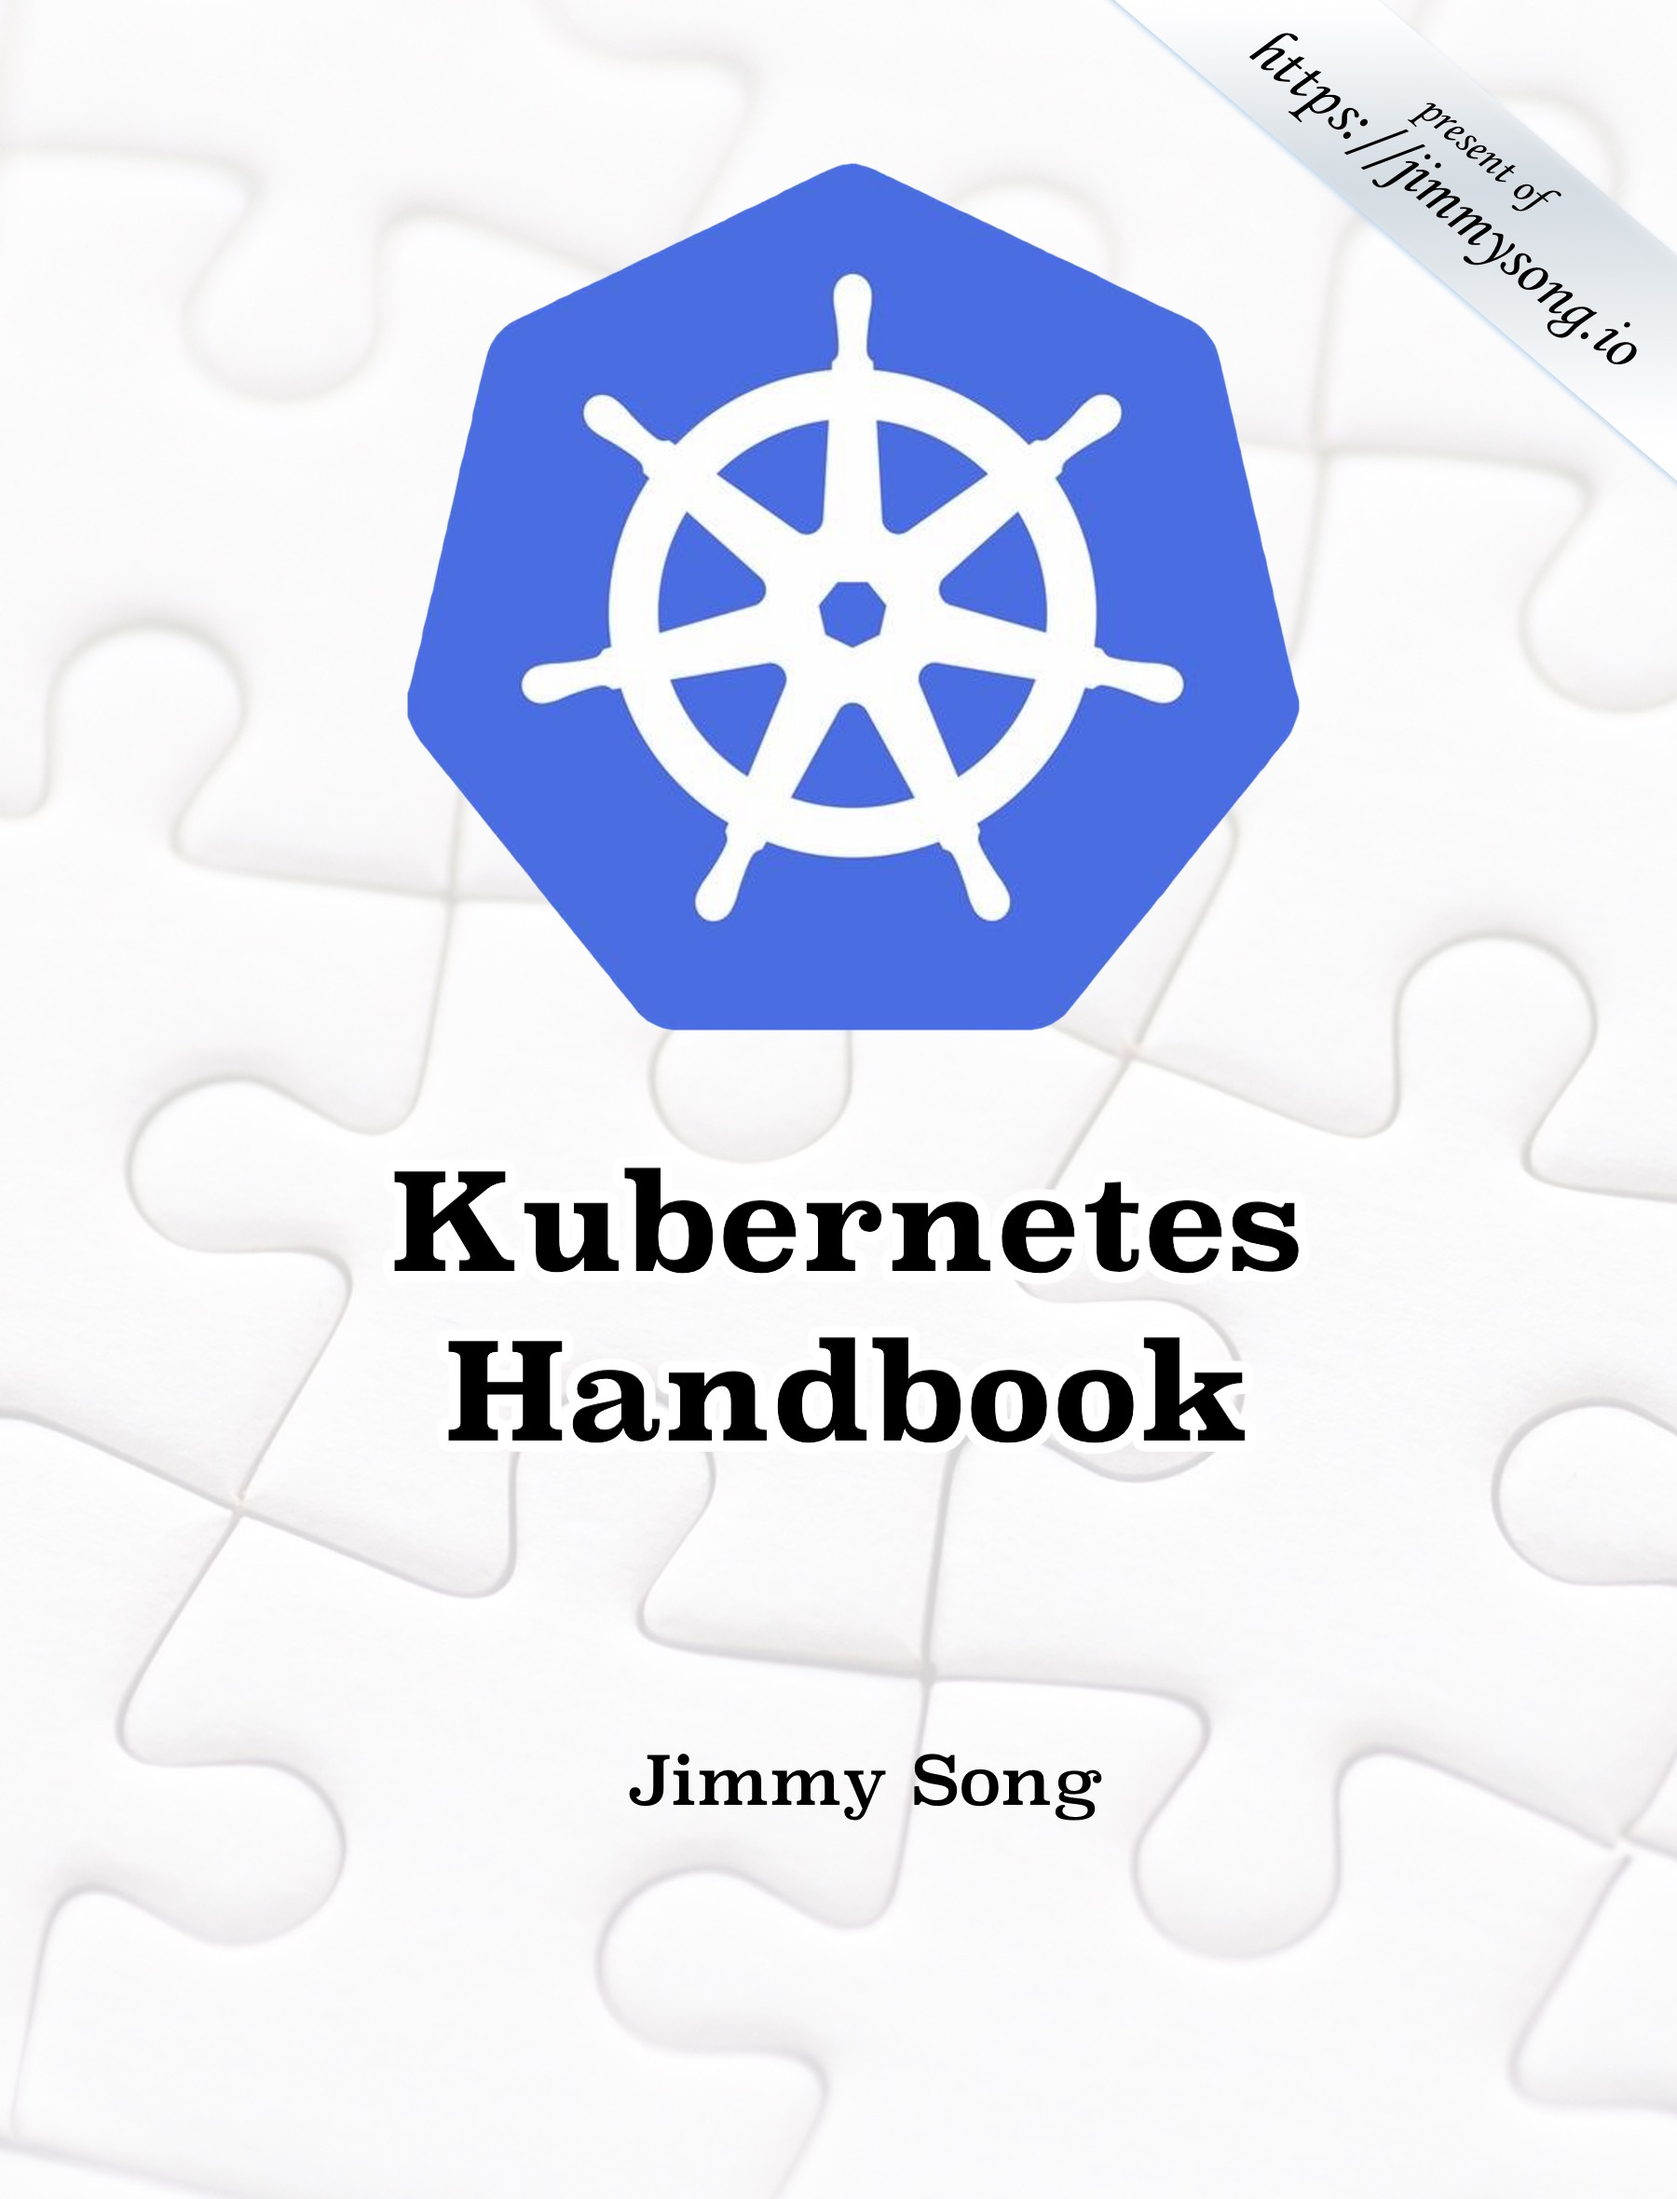
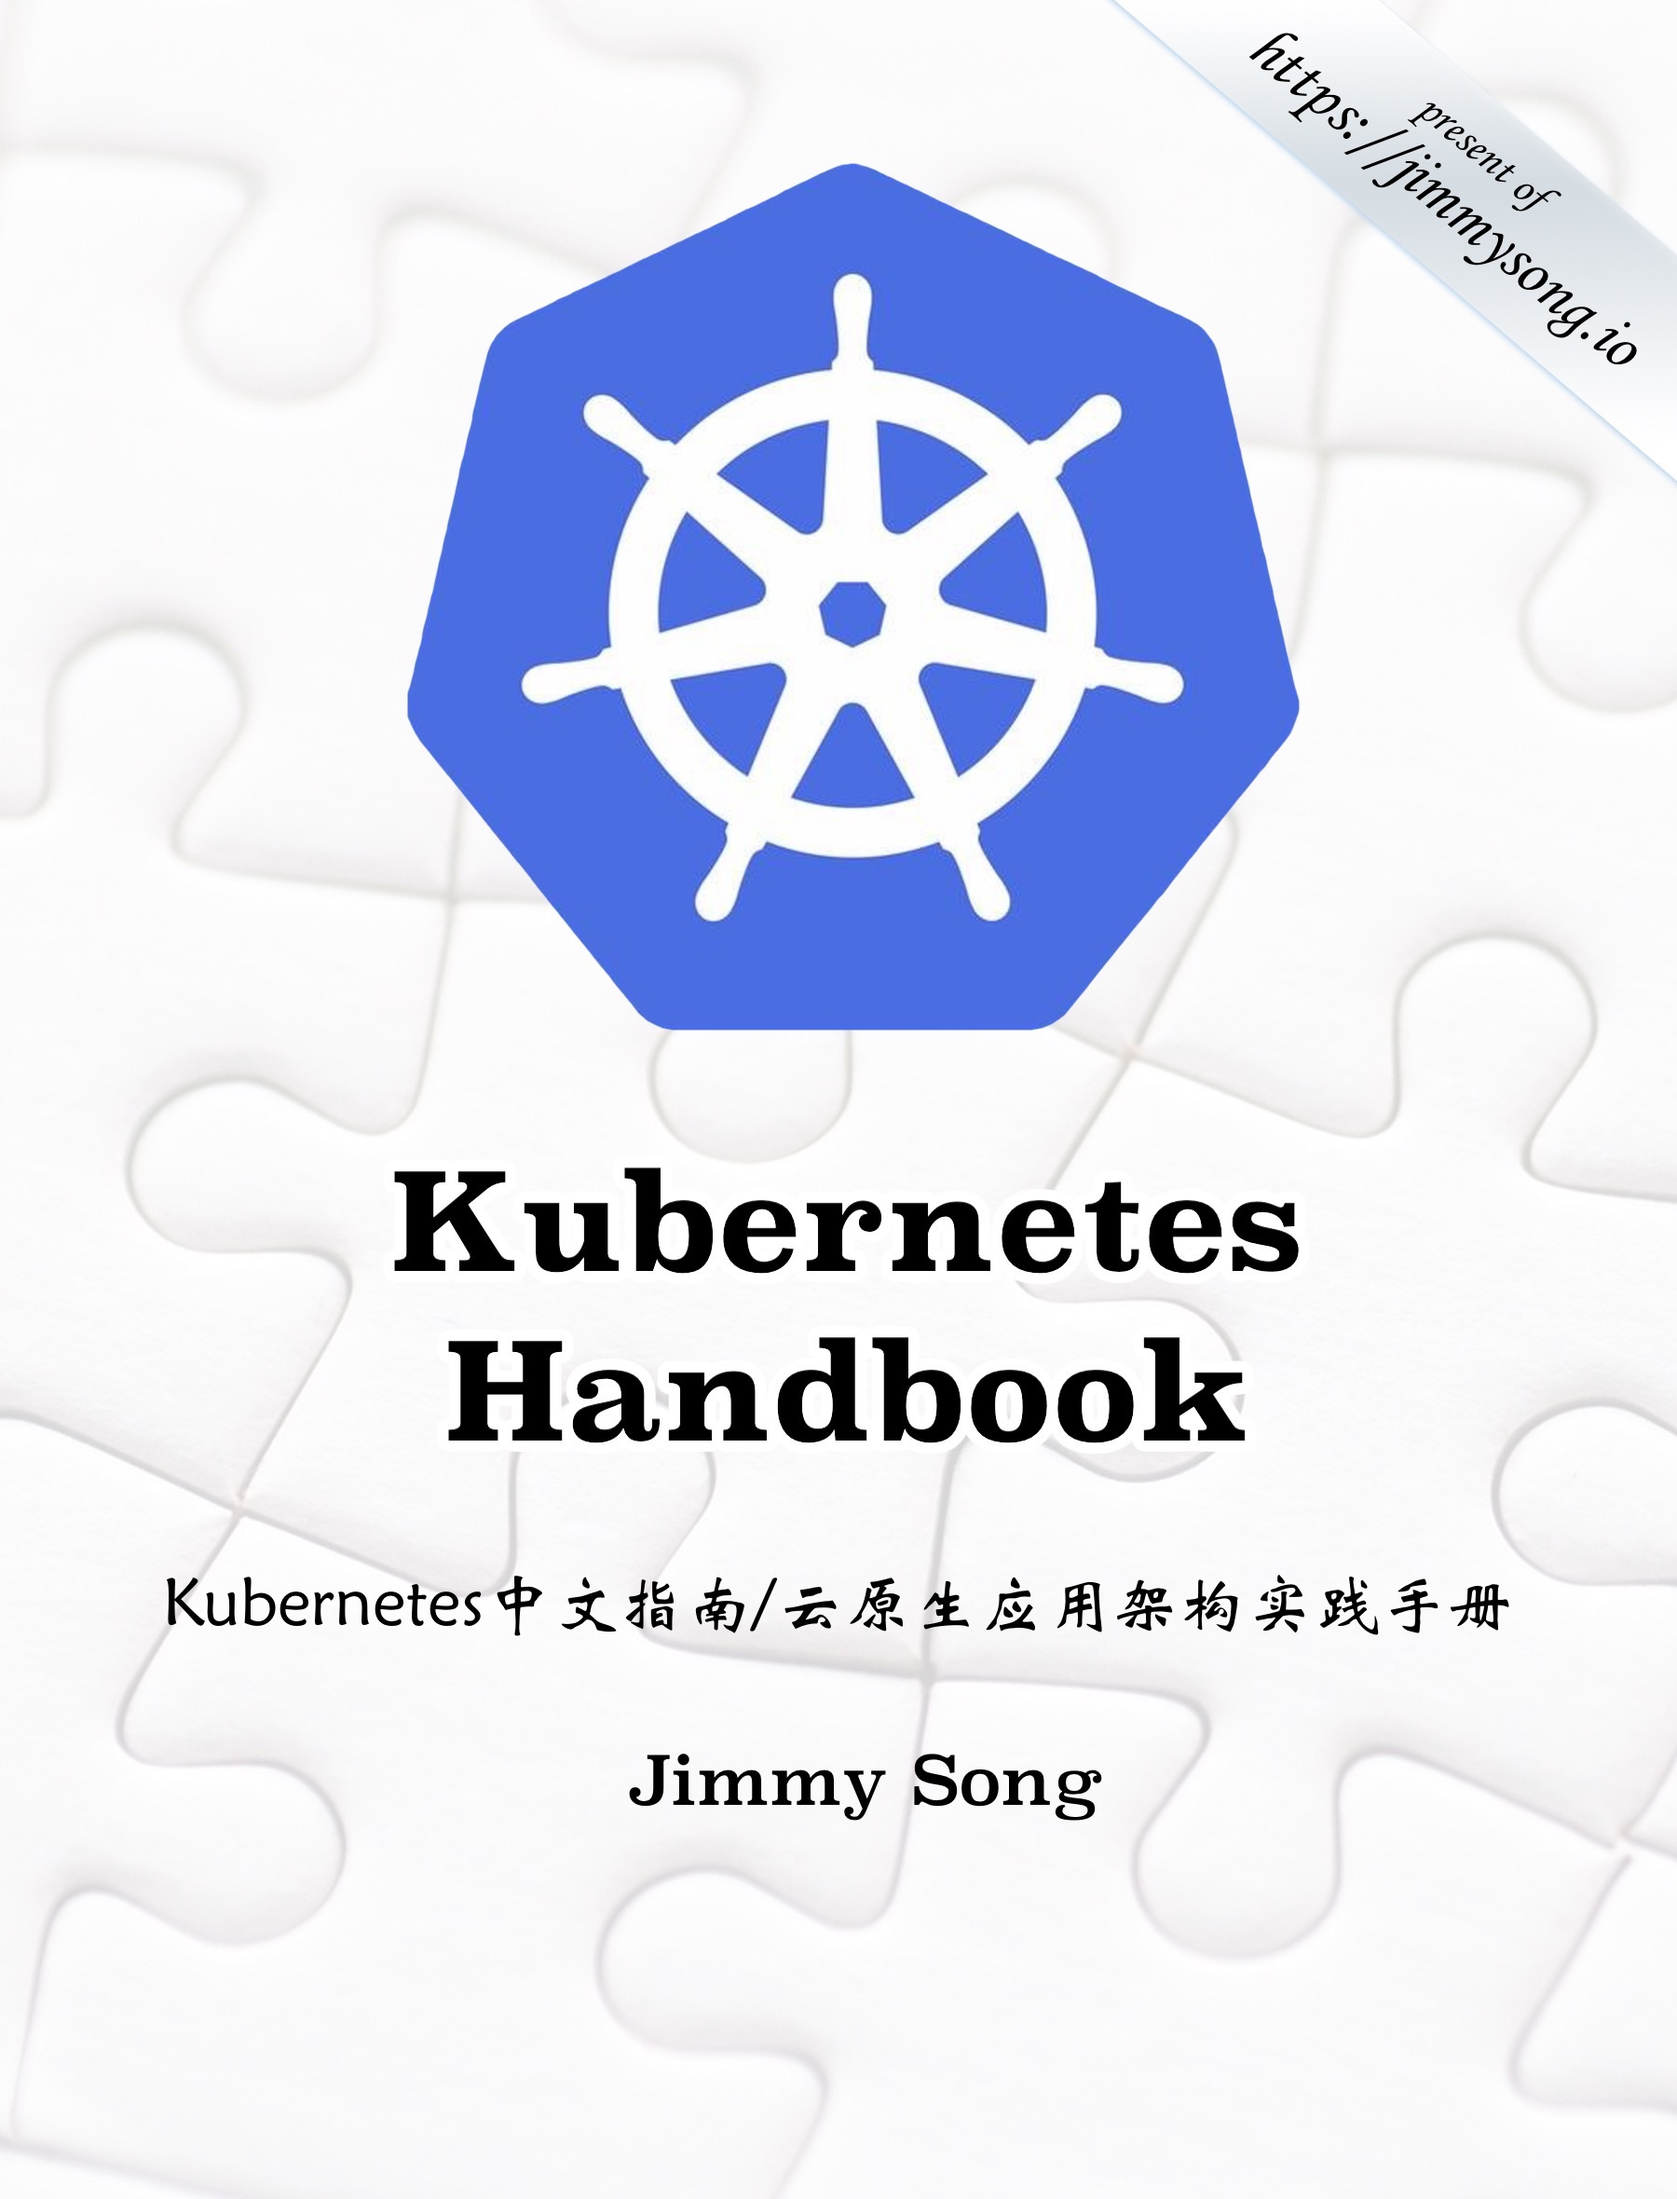
enrich the name of the book

Changed region(s): [[0.3422, 0.7114, 0.9022, 0.7424], [0.0933, 0.7114, 0.3111, 0.7424]]

diff --git a/README.md b/README.md
@@ -1,4 +1,4 @@
-# Kubernetes Handbook
+# Kubernetes Handbook——Kubernetes中文指南/云原生应用架构实践手册
 
 [Kubernetes](http://kubernetes.io)是Google基于[Borg](https://research.google.com/pubs/pub43438.html)开源的容器编排调度引擎，作为[CNCF](http://cncf.io)（Cloud Native Computing Foundation）最重要的组件之一，它的目标不仅仅是一个编排系统，而是提供一个规范，可以让你来描述集群的架构，定义服务的最终状态，Kubernetes可以帮你将系统自动地达到和维持在这个状态。Kubernetes作为云原生应用的基石，相当于一个云操作系统，其重要性不言而喻。
 
@@ -12,19 +12,16 @@
 
 起初写作本书时，安装的所有组件、所用示例和操作等皆基于**Kubernetes1.6+** 版本，同时我们也将密切关注kubernetes的版本更新，随着它的版本更新升级，本书中的Kubernetes版本和示例也将随之更新。
 
-GitHub 地址：https://github.com/rootsongjc/kubernetes-handbook
-
-Gitbook 在线浏览：https://jimmysong.io/kubernetes-handbook/
+- GitHub地址：https://github.com/rootsongjc/kubernetes-handbook
+- Gitbook在线浏览：https://jimmysong.io/kubernetes-handbook/
 
 ## 贡献与致谢
 
 感谢大家对本书做出的贡献！
 
-[查看贡献者列表](https://github.com/rootsongjc/kubernetes-handbook/graphs/contributors)
-
-[查看如何贡献](https://github.com/rootsongjc/kubernetes-handbook/blob/master/CONTRIBUTING.md)
-
-[查看文档的组织结构与使用方法](https://github.com/rootsongjc/kubernetes-handbook/blob/master/CODE_OF_CONDUCT.md)
+- [查看贡献者列表](https://github.com/rootsongjc/kubernetes-handbook/graphs/contributors)
+- [查看如何贡献](https://github.com/rootsongjc/kubernetes-handbook/blob/master/CONTRIBUTING.md)
+- [查看文档的组织结构与使用方法](https://github.com/rootsongjc/kubernetes-handbook/blob/master/CODE_OF_CONDUCT.md)
 
 ## Stargazers over time
 
@@ -38,7 +35,13 @@ Gitbook 在线浏览：https://jimmysong.io/kubernetes-handbook/
 - **微信公众号**：扫描下面的二维码关注微信公众号CloudNativeGo（云原生应用架构）
 
 <p align="center">
-  <img src="https://github.com/rootsongjc/kubernetes-handbook/blob/master/images/cloud-native-go-wechat-qr-code.jpg?raw=true" alt="CloudNativeGo微信公众号二维码"/>
+  <img src="https://github.com/rootsongjc/kubernetes-handbook/blob/master/images/cloud-native-go-wechat-qr-code.jpg?raw=true" alt="云原生应用架构微信公众号二维码"/>
+</p>
+
+- **ServiceMesher**：CloudNativeGo的姊妹公众号，旨在加强行业内部交流，促进开源文化构建，推动Service Mesh在企业落地，发布Service Mesh资讯。[加入组织](http://www.servicemesher.com/contact/)。
+
+<p align="center">
+  <img src="https://ws1.sinaimg.cn/large/00704eQkgy1fshv989hhqj309k09k0t6.jpg" alt="ServiceMesher微信公众号二维码"/>
 </p>
 
 ## 云原生出版物
